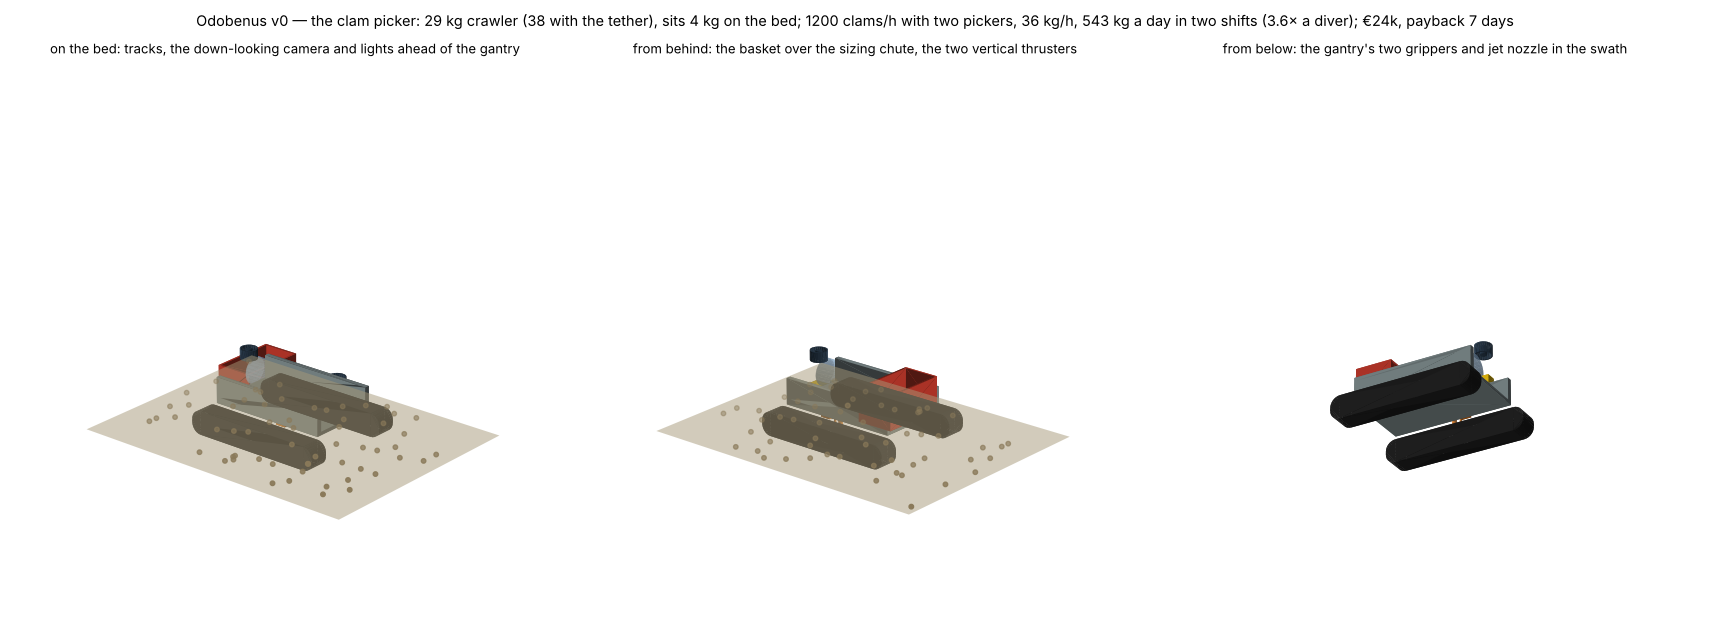
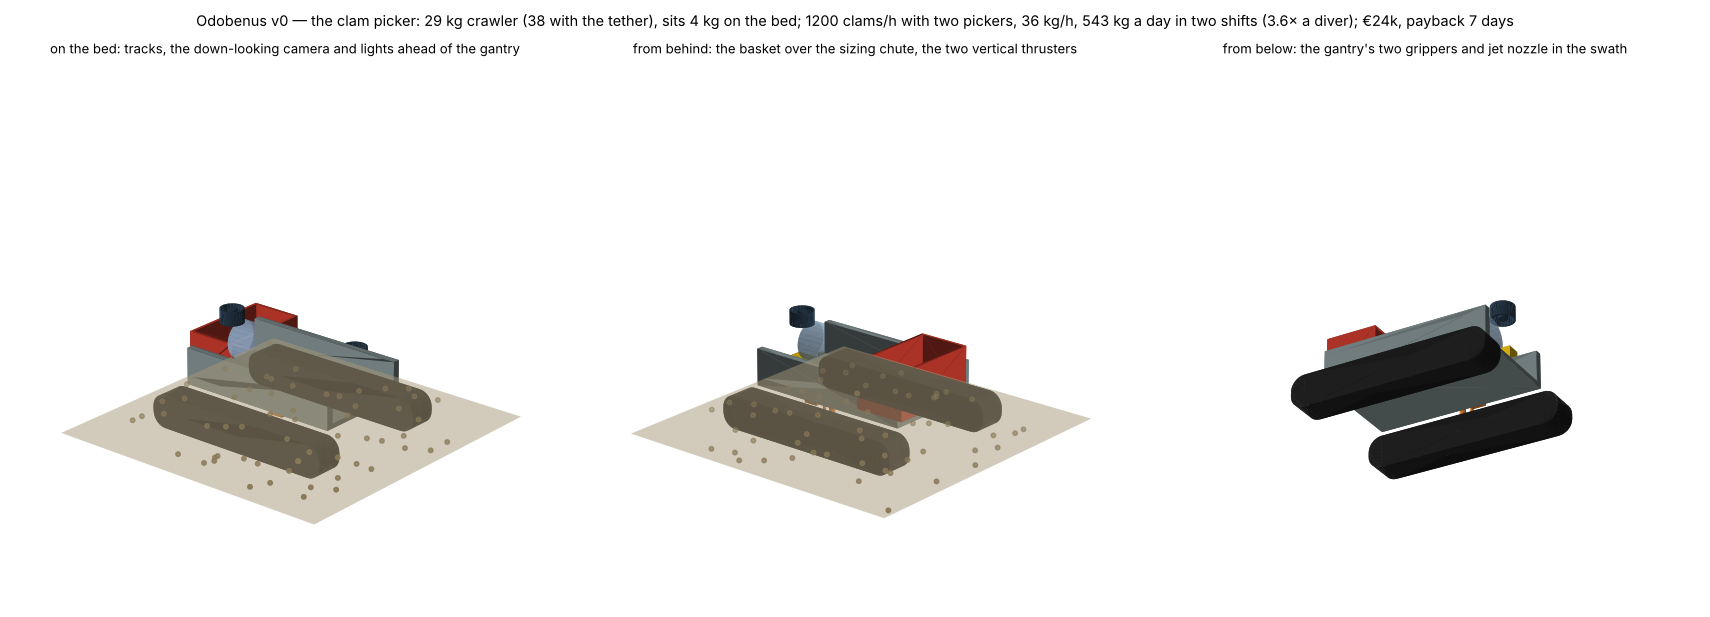
Odobenus drawing: closer views
Claude-Session: https://claude.ai/code/session_01JpTMNuaL4GVaAwMq9bN2fh

diff --git a/labs/marine/designs/odobenus_draw3d.py b/labs/marine/designs/odobenus_draw3d.py
@@ -26,13 +26,13 @@ def draw(ax, p, elev, azim, title, bed=True):
         col, alpha = (c, 1.0) if isinstance(c, str) else c
         ax.add_collection3d(Poly3DCollection(_tris(d.build({**p, "part": name})), facecolors=col, edgecolors=col, linewidths=0.0, alpha=alpha, shade=True))
     if bed:
-        X, Y = np.meshgrid(np.linspace(-900, 900, 2), np.linspace(-700, 700, 2))
+        X, Y = np.meshgrid(np.linspace(-650, 650, 2), np.linspace(-650, 650, 2))
         ax.plot_surface(X, Y, np.zeros_like(X), color="#d9c89e", alpha=0.5)
         rng = np.random.default_rng(3)
-        pts = rng.uniform([-850, -650], [850, 650], (60, 2))
+        pts = rng.uniform([-620, -620], [620, 620], (60, 2))
         ax.scatter(pts[:, 0], pts[:, 1], np.full(60, 2.0), s=12, color="#6e5a3a", marker="o")             # the shows
-    ax.set_xlim(-900, 900); ax.set_ylim(-900, 900); ax.set_zlim(-300, 1500)
-    ax.set_box_aspect((1800, 1800, 1800)); ax.view_init(elev=elev, azim=azim); ax.set_axis_off(); ax.set_title(title, fontsize=10)
+    ax.set_xlim(-650, 650); ax.set_ylim(-650, 650); ax.set_zlim(-250, 1050)
+    ax.set_box_aspect((1300, 1300, 1300)); ax.view_init(elev=elev, azim=azim); ax.set_axis_off(); ax.set_title(title, fontsize=10)
 
 
 def main(out="odobenus_3d.png"):
